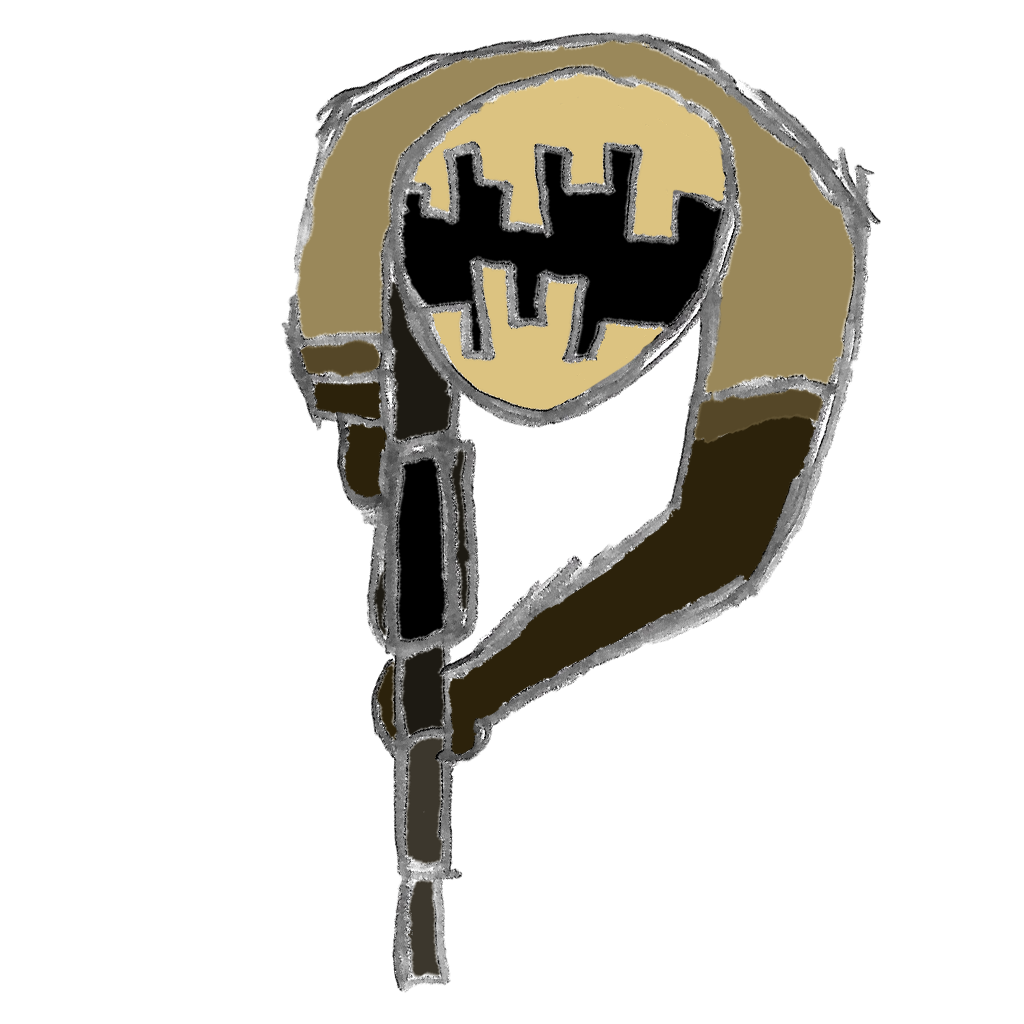
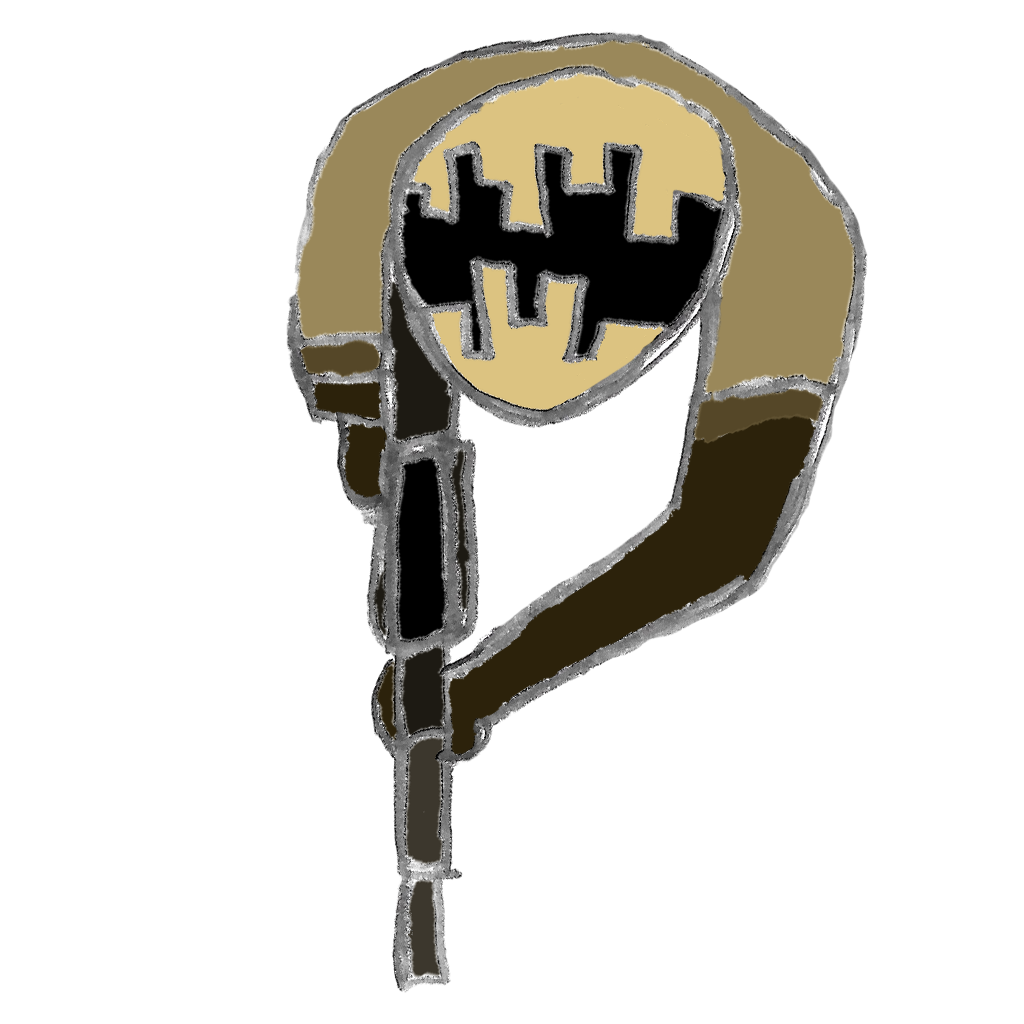
Added new textures

diff --git a/core/src/main/views/AlienView.java b/core/src/main/views/AlienView.java
@@ -9,12 +9,14 @@ import enemies.SneakyAlien;
 import observers.AlienObserver;
 
 public class AlienView extends View<Enemy> implements AlienObserver {
-	private Texture alien, alienWithHelmet, sneakyAlien;
+	private Texture alien, alienWithHelmet, sneakyAlien,toughalien,highalien;
 	
 	public AlienView(){
-		alien = new Texture("alien.png");
-		alienWithHelmet = new Texture("alienwithhelmet.png");
-		sneakyAlien = new Texture("sneakyalien.png");
+		alien = new Texture("alien512.png");
+		alienWithHelmet = new Texture("alienwithhelmet512.png");
+		sneakyAlien = new Texture("sneakyalien512.png");
+		toughalien = new Texture("toughalien512.png");
+		highalien = new Texture("highalien512.png");
 	}
 	
 	@Override

diff --git a/core/src/main/views/BuildingView.java b/core/src/main/views/BuildingView.java
@@ -22,10 +22,10 @@ public class BuildingView extends View<BoardObject> implements BuildingObserver{
         ranger = new Texture("ranger256.png");
         wall = new Texture("TrumpWall.png");
         sniper = new Texture("sniper512.png");
-        aliennerfer = new Texture("soldier.png");
+        aliennerfer = new Texture("netgunner512.png");
         towerbooster = new Texture("soldier.png");
         riotshield = new Texture("riotshield256.png");
-        minutemen = new Texture("solider512.png");
+        minutemen = new Texture("minuteman512.png");
         //all same texture for testing
     }
 

diff --git a/core/src/main/enemies/Enemy.java b/core/src/main/enemies/Enemy.java
@@ -32,7 +32,7 @@ public abstract class Enemy {
 	
 	public void rotateEnemy() {
 		if(nodeArrayPos + 1 < path.size){
-			this.getSpriteAdapter().rotateTowards(path.get(nodeArrayPos + 1), 90);
+			this.getSpriteAdapter().rotateTowards(path.get(nodeArrayPos + 1), -90);
 		}
 	}
 	
